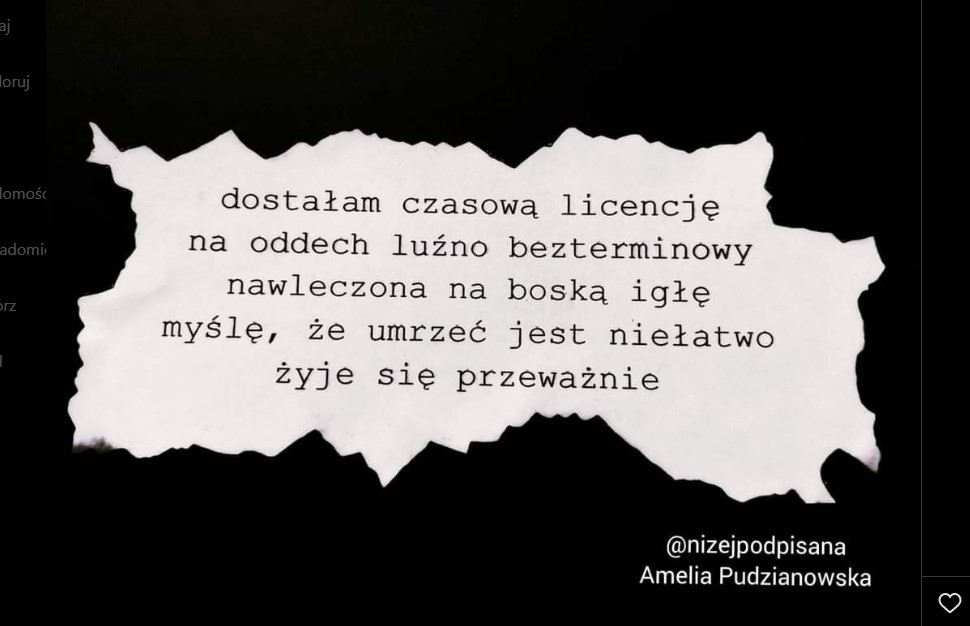
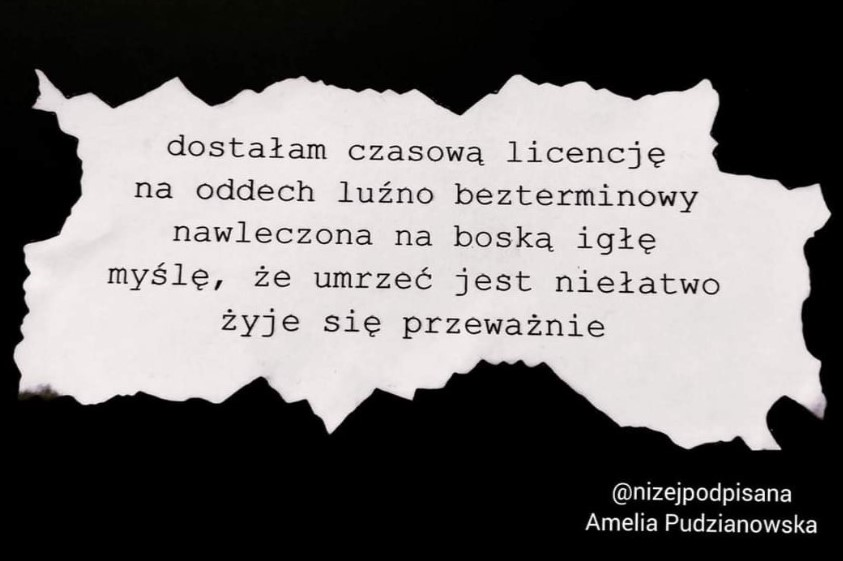
Second update on about section (images)

diff --git a/app/routes/_public.about.tsx b/app/routes/_public.about.tsx
@@ -6,6 +6,7 @@ import gdzieDiabel from '../../public/images/gdzieDiabel_1.svg';
 import pokolenie from '../../public/images/pokoleniePost.jpg';
 import gender from '../../public/images/gender.jpg';
 import madonna from '../../public/images/madonna.jpg';
+import licencja from '../../public/images/licencja.jpg';
 
 export default function Example() {
     return (
@@ -43,57 +44,57 @@ export default function Example() {
                                 <div className="absolute transform sm:left-1/2 sm:top-0 sm:translate-x-8 lg:left-1/2 lg:top-1/2 lg:-translate-y-1/2 lg:translate-x-8">
                                     <div className="flex items-center space-x-6 lg:space-x-8">
                                         <div className="grid flex-shrink-0 grid-cols-1 gap-y-6 lg:gap-y-8">
-                                            <div className="h-64 w-44 overflow-hidden rounded-lg">
+                                            <div className="h-64 w-44 overflow-hidden rounded-lg border border-cherry-pink">
                                                 <img
                                                     src={kocha}
                                                     alt=""
-                                                    className="h-full w-full object-cover cursor-zoom-in object-center opacity-5 hover:opacity-85"
+                                                    className="h-full w-full object-cover cursor-zoom-in object-center opacity-25 hover:opacity-85"
                                                 />
                                             </div>
-                                            <div className="h-64 w-44 overflow-hidden rounded-lg">
+                                            <div className="h-64 w-44 overflow-hidden rounded-lg border border-cherry-pink">
                                                 <img
                                                     src={proste}
                                                     alt=""
-                                                    className="h-full w-full object-cover cursor-zoom-in object-right opacity-5 hover:opacity-85"
+                                                    className="h-full w-full object-cover cursor-zoom-in object-right opacity-25 hover:opacity-85"
                                                 />
                                             </div>
                                         </div>
                                         <div className="grid flex-shrink-0 grid-cols-1 gap-y-6 lg:gap-y-8">
-                                            <div className="h-64 w-44 overflow-hidden rounded-lg">
+                                            <div className="h-64 w-44 overflow-hidden rounded-lg border border-cherry-pink">
                                                 <img
                                                     src={gdzieDiabel}
                                                     alt=""
-                                                    className="h-full w-full object-cover cursor-zoom-in object-center opacity-5 hover:opacity-85"
+                                                    className="h-full w-full object-cover cursor-zoom-in object-center opacity-25 hover:opacity-85"
                                                 />
                                             </div>
-                                            <div className="h-64 w-44 overflow-hidden rounded-lg">
+                                            <div className="h-64 w-44 overflow-hidden rounded-lg border border-cherry-pink">
                                                 <img
                                                     src={muza}
                                                     alt=""
-                                                    className="h-full w-full object-cover cursor-zoom-in object-center"
+                                                    className="h-full w-full object-cover cursor-zoom-in object-center opacity-80 hover:opacity-100"
                                                 />
                                             </div>
-                                            <div className="h-64 w-44 overflow-hidden rounded-lg">
+                                            <div className="h-64 w-44 overflow-hidden rounded-lg border border-cherry-pink">
                                                 <img
-                                                    src={pokolenie}
+                                                    src={licencja}
                                                     alt=""
-                                                    className="h-full w-full object-cover cursor-zoom-in object-bottom opacity-5 hover:opacity-85"
+                                                    className="h-full w-full object-scale-down bg-black cursor-zoom-in object-center opacity-25 hover:opacity-85"
                                                 />
                                             </div>
                                         </div>
                                         <div className="grid flex-shrink-0 grid-cols-1 gap-y-6 lg:gap-y-8">
-                                            <div className="h-64 w-44 overflow-hidden rounded-lg">
+                                            <div className="h-64 w-44 overflow-hidden rounded-lg border border-cherry-pink">
                                                 <img
                                                     src={gender}
                                                     alt=""
-                                                    className="h-full w-full object-cover cursor-zoom-in object-right opacity-5 hover:opacity-85"
+                                                    className="h-full w-full object-cover cursor-zoom-in object-right opacity-25 hover:opacity-85"
                                                 />
                                             </div>
-                                            <div className="h-64 w-44 overflow-hidden rounded-lg">
+                                            <div className="h-64 w-44 overflow-hidden rounded-lg border border-cherry-pink">
                                                 <img
                                                     src={madonna}
                                                     alt=""
-                                                    className="h-full w-full object-cover cursor-zoom-in object-left opacity-5 hover:opacity-85"
+                                                    className="h-full w-full object-cover cursor-zoom-in object-left-top opacity-25 hover:opacity-85"
                                                 />
                                             </div>
                                         </div>
